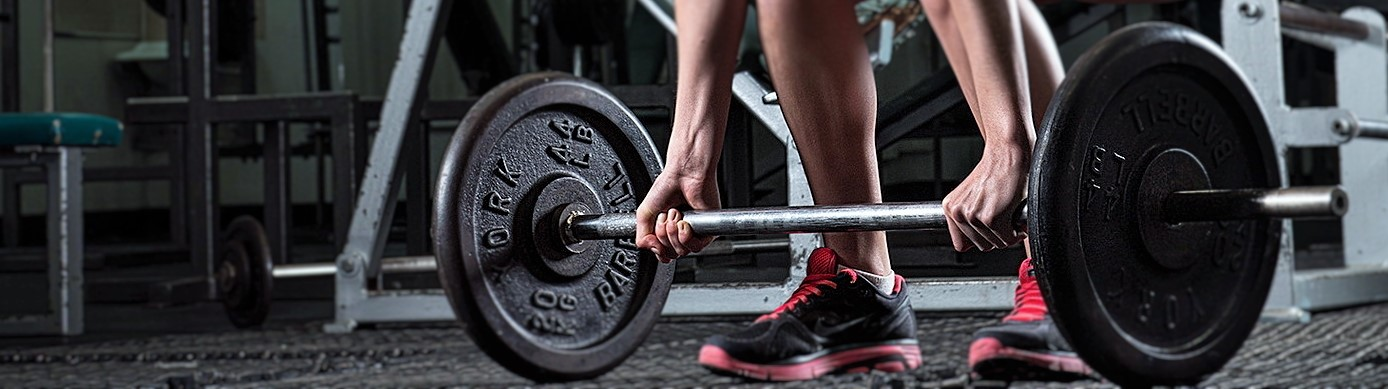
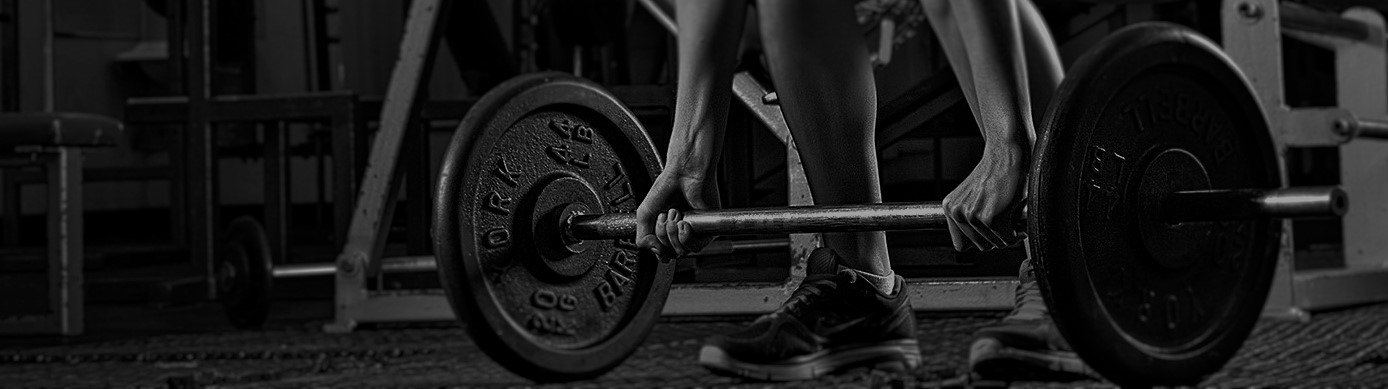
more UI improvements

diff --git a/AzureMediaPortal/Content/Site.css b/AzureMediaPortal/Content/Site.css
@@ -23,7 +23,7 @@ a {
 
     a:link, a:visited,
     a:active, a:hover {
-        color: #333;
+        color: khaki;
     }
 
     a.videoLink
@@ -114,7 +114,8 @@ h5, h6 {
 ----------------------------------------------------------*/
 .content-wrapper {
     margin: 0 auto;
-    max-width: 960px;
+    max-width: 80% !important;
+    
 }
 
 #body {
@@ -156,7 +157,7 @@ footer {
 
 .site-title a, .site-title a:hover, .site-title a:active {
     background: none;
-    color: #0d0b3c;
+    color: #33CFD0;
     outline: none;
     text-decoration: none;
 }
@@ -173,7 +174,7 @@ footer {
 }
 
     #login a {
-        background-color: #d3dce0;
+       font-size: 14px;
         margin-left: 10px;
         margin-right: 3px;
         padding: 2px 3px;
@@ -217,7 +218,7 @@ ul#menu {
 
         ul#menu li a {
             background: none;
-            color: #999;
+            color: #33CFD0;
             text-decoration: none;
         }
 
@@ -231,18 +232,21 @@ ul#menu {
 ----------------------------------------------------------*/
 /* featured */
 .featured {
-    background-color: #fff;
+    /*background-color: #fff;*/
+    background-image: url(../Images/weightlifting-wallpapers.jpg);
+    background-repeat: no-repeat;
+   
 }
 
     .featured .content-wrapper {
-        background-color: #000;
+       
         height: 300px;
         /*background-image: -ms-linear-gradient(left, #0d0b3c 0%, #a4d4e6 100%);
         background-image: -o-linear-gradient(left, #0d0b3c 0%, #a4d4e6 100%);
         background-image: -webkit-gradient(linear, left top, right top, color-stop(0, #0d0b3c), color-stop(1, #a4d4e6));
         background-image: -webkit-linear-gradient(left, #0d0b3c 0%, #a4d4e6 100%);
         background-image: linear-gradient(left, #0d0b3c 0%, #a4d4e6 100%);*/
-        background-image: url(../Images/weightlifting-wallpapers.jpg);
+        /*background-image: url(../Images/weightlifting-wallpapers.jpg);*/
         color: #fff;
         padding: 20px 40px 30px 40px;
     }
@@ -251,9 +255,9 @@ ul#menu {
             color: #fff;
         }
 
-        .featured p {
-            font-size: 1.1em;
-        }
+        /*.featured p {
+            /*font-size: 1.1em;*/
+        }*/
 
 /* page titles */
 hgroup.title {
@@ -261,7 +265,7 @@ hgroup.title {
 }
 
 hgroup.title h1, hgroup.title h2 {
-    display: inline;
+    display:inline-table;
 }
 
 hgroup.title h2 {
@@ -453,7 +457,6 @@ label.checkbox {
 
 input, textarea {
     border: 1px solid #e2e2e2;
-    background: #fff;
     color: #333;
     font-size: 1.2em;
     margin: 5px 0 6px 0;

diff --git a/AzureMediaPortal/Models/MediaElement.cs b/AzureMediaPortal/Models/MediaElement.cs
@@ -20,6 +20,7 @@ namespace AzureMediaPortal.Models
         public int VideoID { get; set;}
         [ForeignKey("VideoID")]
         public List<Post> VideoPost {get; set;}
+        [Display(Name = "Upload Time and Date")]
         public string UploadTime { get; set; }
     }
 
